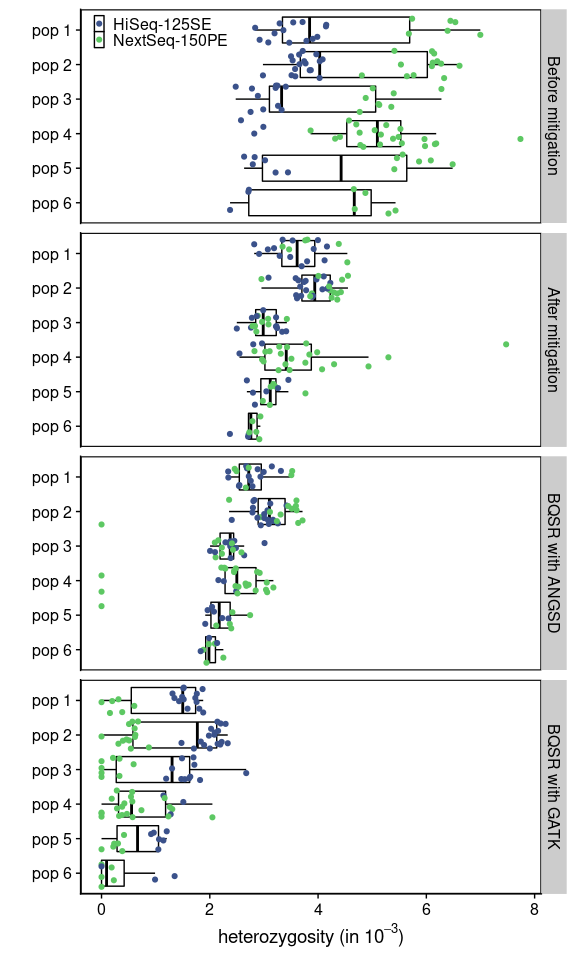
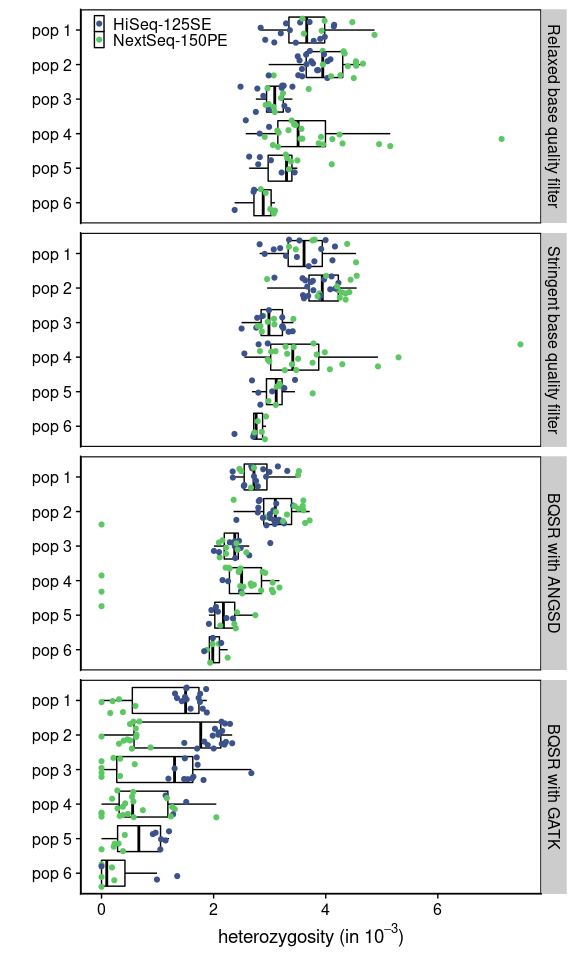
updated the BQSR figure

diff --git a/markdown/figures.md b/markdown/figures.md
@@ -292,13 +292,13 @@ for (i in 1:nrow(sample_table)){
     path_original <- str_c("../../cod/greenland-cod/angsd/heterozygosity/", sample_seq_id,  "_bt2_gadMor3_minq20_sorted_dedup_realigned_mindp2_maxdp10_minq20_minmapq30")
     path_new <- str_c("../angsd/heterozygosity/", sample_seq_id,  "_bt2_gadMor3_sorted_dedup_realigned_mindp2_maxdp10")
   }
-  het_original <- read_delim(str_c(path_original, ".ml"), col_names = F, delim = " ") %>% 
+  het_relaxed <- read_delim(str_c(path_new, "_minq20_minmapq30.ml"), col_names = F, delim = " ") %>% 
     transmute(n_sites=(X1+X2+X3), n_snp=X2, het=n_snp/n_sites) %>%
-    mutate(sample_id=sample_id, population=population, data_type=data_type, type="Before mitigation")
+    mutate(sample_id=sample_id, population=population, data_type=data_type, type="Relaxed base quality filter")
   
   het_stringent <- read_delim(str_c(path_new, "_minq33_minmapq30.ml"), col_names = F, delim = " ") %>% 
     transmute(n_sites=(X1+X2+X3), n_snp=X2, het=n_snp/n_sites) %>%
-    mutate(sample_id=sample_id, population=population, data_type=data_type, type="After mitigation")
+    mutate(sample_id=sample_id, population=population, data_type=data_type, type="Stringent base quality filter")
 
   het_bqsr_angsd <- read_delim(str_c(path_new, "_minq0_minmapq30_bqsr.ml"), col_names = F, delim = " ") %>% 
     transmute(n_sites=(X1+X2+X3), n_snp=X2, het=n_snp/n_sites) %>%
@@ -308,7 +308,7 @@ for (i in 1:nrow(sample_table)){
     transmute(n_sites=(X1+X2+X3), n_snp=X2, het=n_snp/n_sites) %>%
     mutate(sample_id=sample_id, population=population, data_type=data_type, type="BQSR with GATK")
 
-  het_combined <- bind_rows(het_original, het_stringent, het_bqsr_angsd, het_bqsr_gatk)
+  het_combined <- bind_rows(het_relaxed, het_stringent, het_bqsr_angsd, het_bqsr_gatk)
   if(i==1){
     het_final <- het_combined
   } else {
@@ -317,7 +317,7 @@ for (i in 1:nrow(sample_table)){
 }
 bqsr_gg <- het_final %>%
   left_join(rename_pop) %>%
-  mutate(type=fct_relevel(type, c("Before mitigation", "After mitigation", "BQSR with ANGSD", "BQSR with GATK"))) %>%
+  mutate(type=fct_relevel(type, c("Relaxed base quality filter", "Stringent base quality filter", "BQSR with ANGSD", "BQSR with GATK"))) %>%
   mutate(batch=ifelse(data_type=="pe", "NextSeq-150PE", "HiSeq-125SE")) 
 set.seed(42)
 bqsr_plot <- bqsr_gg %>%
